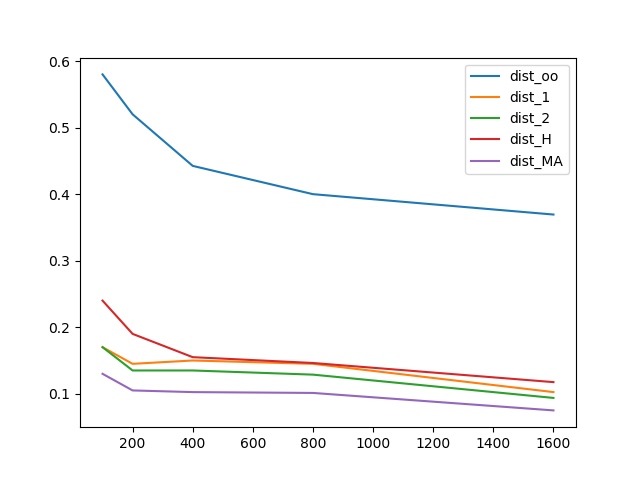
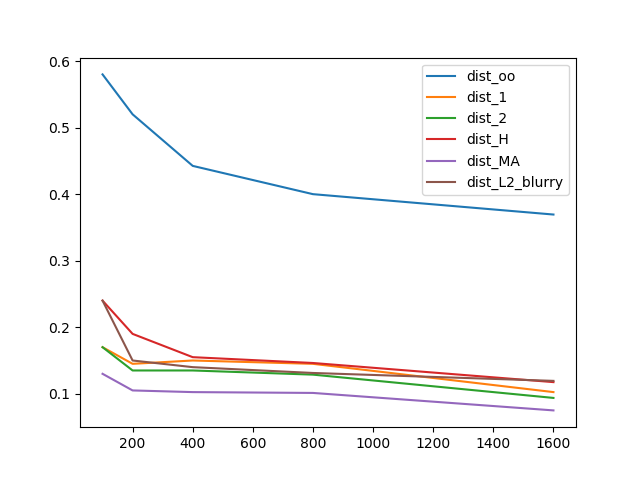
blurry L2 distance tested.

diff --git a/plot.py b/plot.py
@@ -2,6 +2,8 @@
 
 # Plotting methods.
 
+from pydist import *
+from classify import *
 import matplotlib.pyplot as plt
 
 def plot_image(data,filename):
@@ -102,8 +104,15 @@ if __name__ == "__main__":
 	
 	
 	plot_dist_matrix(
-		[dist_oo,dist_1,dist_2,dist_H,dist_MA])
+		[dist_oo,dist_1,dist_2,dist_H,dist_MA,dist_L2_blurry],
+		x_train)
+		
 	x,ly=compute_error_dist_matrix(
-		[dist_oo,dist_1,dist_2,dist_H,dist_MA])
+		[dist_oo,dist_1,dist_2,dist_H,dist_MA,dist_L2_blurry],
+		x_train,
+		y_train)
+		
 	plot_error_dist_matrix(
-		[dist_oo,dist_1,dist_2,dist_H,dist_MA],x,ly)
+		[dist_oo,dist_1,dist_2,dist_H,dist_MA,dist_L2_blurry],
+		x,
+		ly)

diff --git a/test.py b/test.py
@@ -227,10 +227,12 @@ if __name__ == "__main__":
 	benchmark_dist(dist_2, 1000)
 	benchmark_dist(dist_H, 1000)
 	benchmark_dist(dist_MA,1000)
+	benchmark_dist(dist_L2_blurry,1000)
 	
 	benchmark_dist_matrix(100,dist_oo,x_train)
 	benchmark_dist_matrix(100,dist_1,x_train)
 	benchmark_dist_matrix(100,dist_2,x_train)
 	benchmark_dist_matrix(100,dist_H,x_train)
 	benchmark_dist_matrix(100,dist_MA,x_train)
+	benchmark_dist_matrix(100,dist_L2_blurry,x_train)
 

diff --git a/README.md b/README.md
@@ -37,7 +37,6 @@ An example of the use of the `Oracle` in python shell could be:
 
 
 #### Testing and visualization
-- `show_img.py` used to visualize the images from the mnist database.
 - `plot.py` used to visualize the results.
 - `test.py` contains the unittests and benchmarks.
 
@@ -128,7 +127,7 @@ Here below the performance of
 the distance function `dist_MA`, running on an array size of *NxN*
 with *N=1000*. The complexity is *O(N^2 T)*, where *T* is the number
 of steps used to solve the Poisson Equation using Jacobi's method.
-We fix *T=100*.
+We fix *T=56*.
 ```
 dist_MA for images of size (1000, 1000): 0.07709 seconds
 ```
@@ -167,11 +166,38 @@ If two curves in the 28x28 canvas are similar from our point of view,
 it doesn't necessarily means that their L2 distance is small.
 In fact by just translating a little bit one away from the other
 we can make them have non-overlaping points and their distance
-will be as big as it can. However, their blurry version
+will be as big as it can. However, their *blurry* version
 fill the entire canvas and their L2 distance (or H1) might not be as bad.
 With the previously discussed Monge-Ampere distance we are actually 
-testing that thesis: using the H1 distance over the blurry images
+testing that thesis: using the H1 distance over the *blurry* images
 to find similarities. But we have seen that the fail rate
 of H1 is bigger than L2 for the original images,
 so we suspect that maybe by using L2 over *blurry* images
-will overperform H1 and thus Monge-Ampere distance.
+will outperform H1 and thus Monge-Ampere distance.
+
+Here below the performance of
+the distance function `dist_MA`, running on an array size of *NxN*
+with *N=1000*. The complexity---just like for Monge-Ampere---is 
+*O(N^2 T)*, where *T* is the number
+of steps used to solve the Poisson Equation using Jacobi's method.
+We fix *T=56*. However `dist_L2_blurry` is slighty faster than
+`dist_MA` because there is no need to compute the gradient
+of the solution to the Poisson Equation.
+```
+dist_L2_blurry for images of size (1000, 1000): 0.03561 seconds
+```
+Here below the performance of the
+computation of matrix distances for *N* images of size 
+*SxS* with *S=28* and *N=100*. The complexity is *O(N^2 T S^2)*.
+```
+dist_matrix for 100 images of size (28, 28) using dist_L2_blurry: 1.81777 seconds
+```
+
+The errors of the distance table for *N=100,200,400,800,1600* are
+`[0.24, 0.15, 0.14, 0.13125, 0.119375]` respectively.
+Which disproves the previous hypothesis.
+
+Distance table for the first *N=100* images using the 
+function `dist_L2_blurry`.
+<img src="./images/dist_L2_blurry.png" alt="Drawing" style="width: 800px;"/>
+
